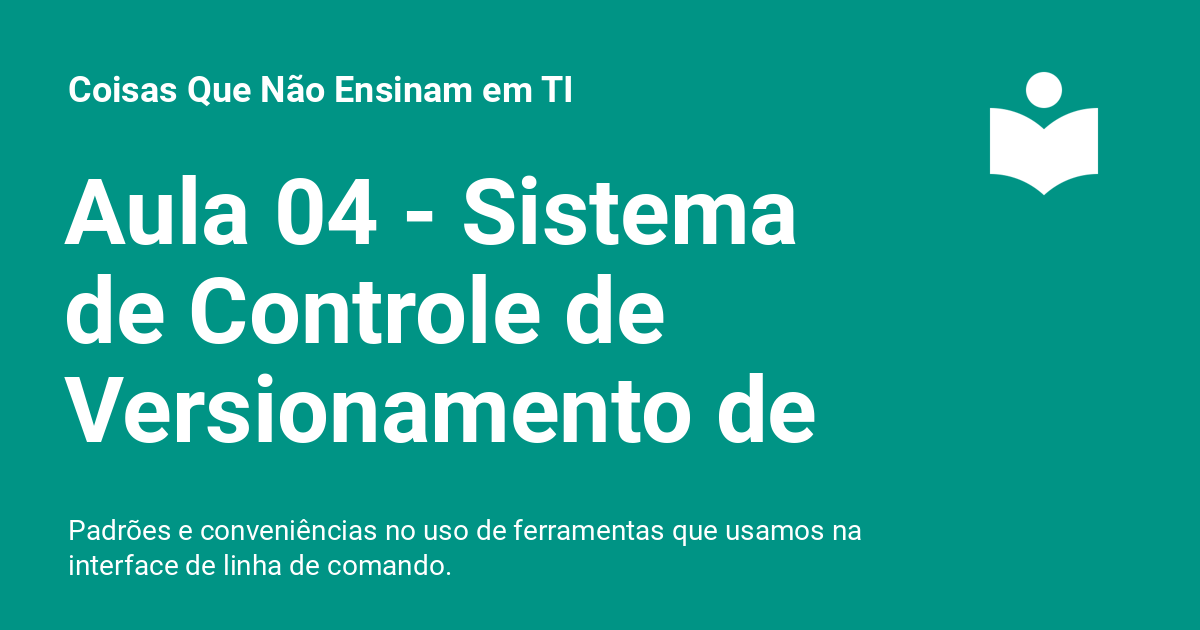
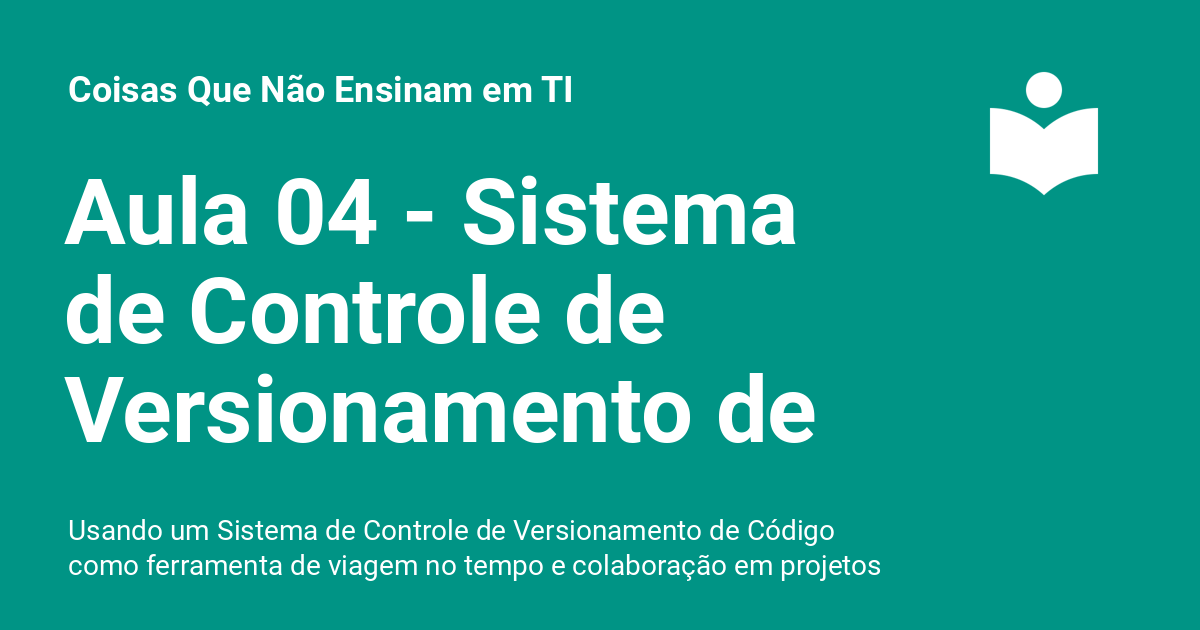
Deployed 3a75062 with MkDocs version: 1.6.0

Changed region(s): [[0.0617, 0.8143, 0.74, 0.9349]]

diff --git a/aulas/04-source-control/index.html b/aulas/04-source-control/index.html
@@ -6,7 +6,7 @@
       <meta charset="utf-8">
       <meta name="viewport" content="width=device-width,initial-scale=1">
       
-        <meta name="description" content="Padrões e conveniências no uso de ferramentas que usamos na interface de linha de comando.">
+        <meta name="description" content="Usando um Sistema de Controle de Versionamento de Código como ferramenta de viagem no tempo e colaboração em projetos com código">
       
       
       
@@ -59,7 +59,7 @@
       
         <meta  property="og:title"  content="Aula 04 - Sistema de Controle de Versionamento de Código - Git - Coisas Que Não Ensinam em TI" >
       
-        <meta  property="og:description"  content="Padrões e conveniências no uso de ferramentas que usamos na interface de linha de comando." >
+        <meta  property="og:description"  content="Usando um Sistema de Controle de Versionamento de Código como ferramenta de viagem no tempo e colaboração em projetos com código" >
       
         <meta  property="og:image"  content="./assets/images/social/aulas/04-source-control.png" >
       
@@ -75,7 +75,7 @@
       
         <meta  name="twitter:title"  content="Aula 04 - Sistema de Controle de Versionamento de Código - Git - Coisas Que Não Ensinam em TI" >
       
-        <meta  name="twitter:description"  content="Padrões e conveniências no uso de ferramentas que usamos na interface de linha de comando." >
+        <meta  name="twitter:description"  content="Usando um Sistema de Controle de Versionamento de Código como ferramenta de viagem no tempo e colaboração em projetos com código" >
       
         <meta  name="twitter:image"  content="./assets/images/social/aulas/04-source-control.png" >
       
